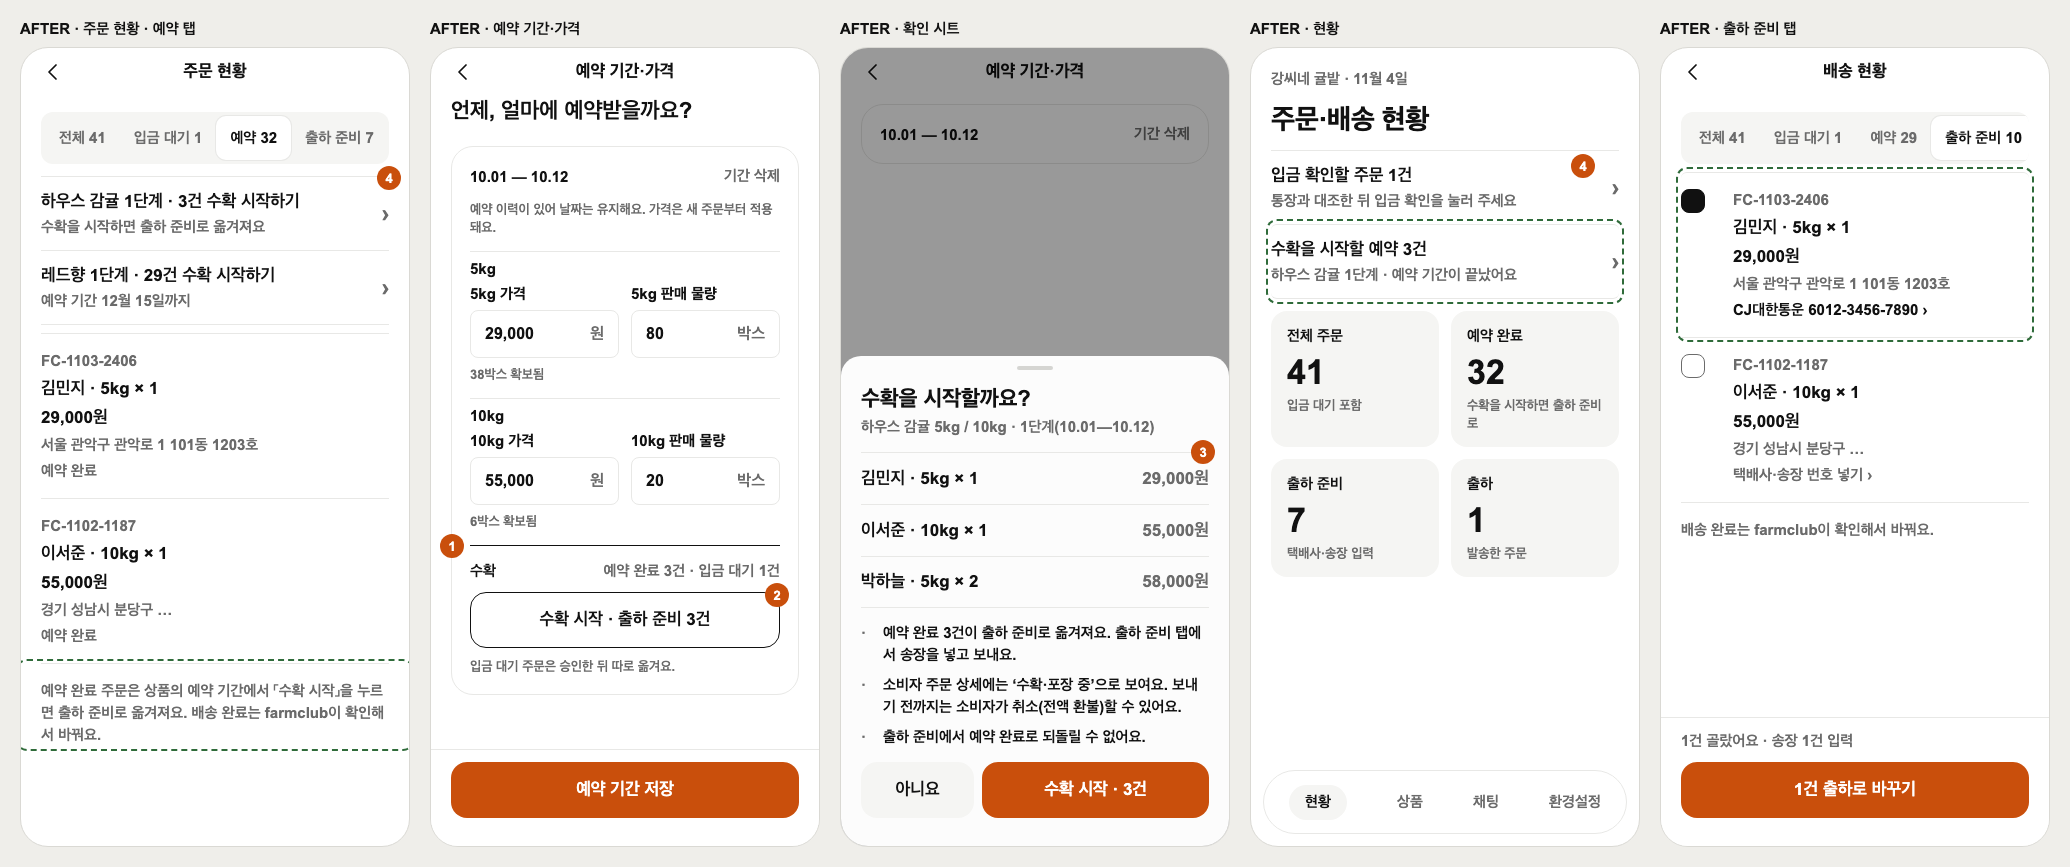
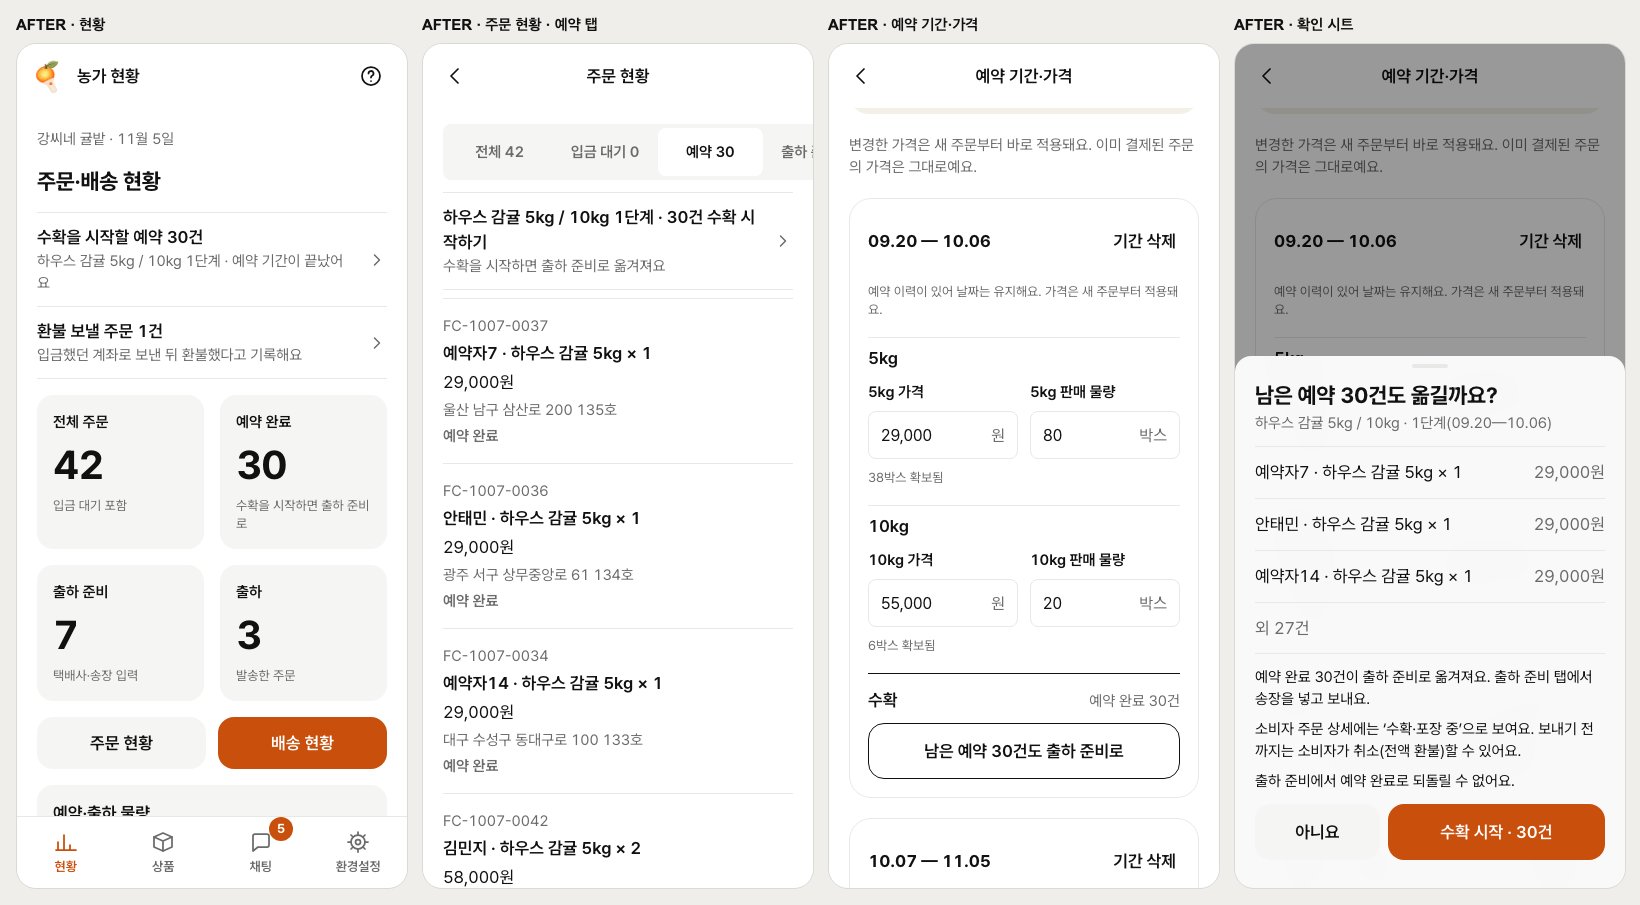
docs(design): DEV-231 implemented before/after and task records (DEV-231)

diff --git a/docs/design/proposals/dev-231-harvest-start.html b/docs/design/proposals/dev-231-harvest-start.html
@@ -217,7 +217,7 @@ pre.code { margin: 0; background: var(--bg); border-radius: 8px; padding: 12px; 
 
 <div class="wrap">
   <header class="head">
-    <span class="eyebrow">DEV-231 · HE-06(사전 점검 P1 심각도 4, P12) · 스펙 결정 B · 디자인 제안 (PM 승인 대기)</span>
+    <span class="eyebrow">DEV-231 · HE-06(사전 점검 P1 심각도 4, P12) · 스펙 결정 B · 디자인 제안 (2026-11-05 PM 승인, 추천안대로)</span>
     <h1>수확을 시작하면, 그 기간의 예약 주문이 출하 준비로 넘어간다</h1>
     <p class="lede">지금은 입금을 승인한 주문이 '예약' 탭에 들어간 뒤 아무 데도 갈 수 없다. 줄에는 '예약 완료' 글자뿐이고, '출하 준비' 탭에는 시드 주문만 있어 평가자가 만든 주문으로는 출하·송장 과제를 끝낼 수 없었다(FQ-06·AC-17-3이 수확 시작 UI를 일부러 뺐다). PM 결정 B는 "수확 시작 = 출하 준비 시작"이다. 예약 기간 카드에 결과를 말하는 버튼 하나를 두고, 현황과 예약 탭에서는 그 버튼으로 데려간다. 서버에는 이미 있던 수확 시작 API를 기간 단위로 좁혀 다시 쓴다. 왼쪽은 main 코드 그대로 다시 그린 화면, 오른쪽은 제안이다. 이름·금액·건수는 모두 <span class="ex">예시</span>다.</p>
     <div class="meta"><span>브랜치 <code>nemodleo/dev-231-harvest-start-preparing</code></span><span>작업 기록 <code>server/tasks/DEV-231.md</code> · <code>apps/producer/tasks/DEV-231.md</code></span><span>개발 PR 위험 등급: 고위험 (<code>server/app/orders/**</code>)</span></div>
@@ -568,7 +568,7 @@ Idempotency-Key: &lt;uuid&gt;          # 새로 필수(run_idempotent)
       <thead><tr><th>문서</th><th>지금</th><th>바꿀 내용</th></tr></thead>
       <tbody>
         <tr><td class="code">functional/README.md FQ-06</td><td>프론트에서 수확 시작 제거, 자동 전이 없음</td><td class="chg">결정 B(2026-11-04, DEV-231): 기간 카드의 '수확 시작'이 그 기간의 예약 완료 주문을 출하 준비로 옮긴다. 자동 전이·주문별 버튼은 없다</td></tr>
-        <tr><td class="code">FEAT-17 AC-17-3</td><td>조회만, 수확 시작 UI·호출 없음, RESERVED 그대로</td><td class="chg">예약 화면을 여는 것만으로는 상태가 바뀌지 않는다(조회는 그대로). 새 AC-17-10: 기간 하나의 수확 시작 → 그 기간 RESERVED만 PREPARING, 다른 기간·입금 대기 그대로, 소비자 상세 '수확·포장 중'. 새 AC-17-11: 다른 농가 404, 같은 키 재시도 중복 없음, 0건 200, 감사 한 행</td></tr>
+        <tr><td class="code">FEAT-17 AC-17-3</td><td>조회만, 수확 시작 UI·호출 없음, RESERVED 그대로</td><td class="chg">예약 화면을 여는 것만으로는 상태가 바뀌지 않는다(조회는 그대로). 새 AC-17-11: 기간 하나의 수확 시작 → 그 기간 RESERVED만 PREPARING, 다른 기간·입금 대기 그대로, 소비자 상세 '수확·포장 중'. 새 AC-17-12: 다른 농가 404, 같은 키 재시도 중복 없음, 0건 200, 감사 한 행</td></tr>
         <tr><td class="code">FEAT-17 정상 흐름·입력·검증</td><td>"UI·프론트 호출 및 자동 전이는 없다"</td><td class="chg">정상 흐름 1.5) 예약 기간 카드 '수확 시작 · 출하 준비 n건' → 확인 시트 → 출하 준비. 입력·검증 문장 교체</td></tr>
         <tr><td class="code">FEAT-14 정상 흐름</td><td>할 일: 입금 확인·환불·계좌</td><td class="chg">할 일 줄 「수확을 시작할 예약 n건」 추가, 예약 완료 지표 설명 문구</td></tr>
         <tr><td class="code">screens.md SCR-22·26·29, API 표</td><td>SCR-29 "수확 시작 UI/확인/완료 없음", API 표 harvest-start <code>productId</code></td><td class="chg">SCR-26 기간 카드 '수확' 칸, SCR-29 예약 탭 안내 줄·문구, SCR-22 할 일 줄, API 표 <code>stageId</code>·<code>Idempotency-Key</code>·응답</td></tr>
@@ -589,11 +589,11 @@ Idempotency-Key: &lt;uuid&gt;          # 새로 필수(run_idempotent)
       <div class="box">
         <h3>pytest (<code>server/tests/test_orders.py</code>)</h3>
         <ul>
-          <li><code>test_AC_17_10_harvest_start_moves_only_that_stage_reserved</code> — 1단계 RESERVED 2 + 2단계 RESERVED 1 + 1단계 AWAITING_DEPOSIT 1 → 1단계만 2건 PREPARING</li>
-          <li><code>test_AC_17_10_consumer_sees_preparing</code> — 소비자 주문 상세 status PREPARING, 취소 가능(REFUNDED로)</li>
-          <li><code>test_AC_17_11_other_farm_404</code>, <code>…_stage_of_other_product_404</code></li>
-          <li><code>test_AC_17_11_same_key_replay_no_duplicate_event</code>, <code>…_zero_orders_200</code>, <code>…_missing_key_400</code></li>
-          <li><code>test_AC_17_11_audit_event_once</code> — ManagerEvent 한 행, orderIds 일치</li>
+          <li><code>test_AC_17_11_harvest_start_moves_only_that_stage_reserved</code> — 1단계 RESERVED 2 + 2단계 RESERVED 1 + 1단계 AWAITING_DEPOSIT 1 → 1단계만 2건 PREPARING</li>
+          <li><code>test_AC_17_11_consumer_sees_preparing</code> — 소비자 주문 상세 status PREPARING, 취소 가능(REFUNDED로)</li>
+          <li><code>test_AC_17_12_other_farm_404</code>, <code>…_stage_of_other_product_404</code></li>
+          <li><code>test_AC_17_12_same_key_replay_no_duplicate_event</code>, <code>…_zero_orders_200</code>, <code>…_missing_key_400</code></li>
+          <li><code>test_AC_17_12_audit_event_once</code> — ManagerEvent 한 행, orderIds 일치</li>
           <li><code>test_AC_17_3_listing_does_not_change_state</code> — 생산자 목록·현황 조회만으로 RESERVED 그대로(뒤집은 AC의 남는 부분)</li>
           <li><code>test_AC_14_*_to_harvest_counts_closed_stages</code> — 끝난 기간만 셈, KST 경계</li>
           <li>기존 harvest-start 호출 4곳: <code>stageId</code> 없이 그대로 통과(호환)</li>

diff --git a/apps/producer/tasks/DEV-231.md b/apps/producer/tasks/DEV-231.md
@@ -2,18 +2,19 @@
 
 - 이슈: [DEV-231](https://linear.app/sswp6/issue/DEV-231) · GitHub #427 · 근거 HE 사전 점검 P1(심각도 4)·P12, 결과 HE-06
 - 브랜치: `nemodleo/dev-231-harvest-start-preparing`
-- 기능·인수 조건: FEAT-17 / AC-17-3(뒤집음)·AC-17-6, 새 AC-17-10·AC-17-11(제안) · FEAT-14 할 일 줄 · FEAT-05 SCR-26 예약 기간 · FQ-06
+- 기능·인수 조건: FEAT-17 / AC-17-3(좁힘)·AC-17-6, 새 AC-17-11·AC-17-12 · FEAT-14 / 새 AC-14-5 할 일 줄 · FEAT-05 SCR-26 예약 기간 · FQ-06
 - 서버 쪽은 `server/tasks/DEV-231.md`
 - 위험 등급: 개발 PR은 **고위험**(서버 `server/app/orders/**`와 함께)
-- 상태: 1단계(제안 보드) — PM 승인 대기
+- 상태: 2단계 개발 완료, 사람 리뷰 대기(서버 고위험과 같은 PR)
 
 ### 목표
 생산자가 '예약 기간·가격'(SCR-26)의 기간 카드에서 「수확 시작 · 출하 준비 n건」을 누르면 확인 시트를 거쳐 그 기간의 예약 완료 주문이 출하 준비로 옮겨진다. 현황 할 일 줄과 주문 현황 '예약' 탭 안내에서 이 버튼으로 갈 수 있다.
 
 ### 범위 (수정 허용 경로)
 - 1단계: `docs/design/proposals/dev-231-harvest-start.html`, `docs/design/proposals/DEV-231/*.png`
-- 2단계(승인 뒤): `apps/producer/src/app/(tabs)/products/[id]/stages.tsx`(기간 카드 수확 줄·확인 시트), `apps/producer/src/app/(tabs)/index.tsx`(할 일 줄), `apps/producer/src/app/ship.tsx`(예약 탭 안내·바로가기), `packages/api/src/endpoints.ts`·`types.ts`(`harvestStart(productId, stageId, key)`, 대시보드 `toHarvest`), `packages/api/src/mock/orders.ts`·`mock/catalog.ts`(단계 필터·수)
-- `scripts/e2e/*.spec.ts`(생산자 출하 흐름), `scripts/test-*.mjs`(Mock)
+- 2단계(승인 뒤): `apps/producer/src/app/(tabs)/products/[id]/stages.tsx`(기간 카드 수확 줄·확인 시트), `apps/producer/src/lib/HarvestStart.tsx`(새: '수확' 칸·시트 부품), `apps/producer/src/app/(tabs)/index.tsx`(할 일 줄), `apps/producer/src/app/ship.tsx`(예약 탭 안내·바로가기), `packages/api/src/endpoints.ts`·`types.ts`(`harvestStart(productId, stageId, key)`, 대시보드 `toHarvest`), `packages/api/src/mock/orders.ts`·`mock/catalog.ts`·`mock/derive.ts`(기간 필터·수, 주문 줄 `stageId`)
+- `scripts/e2e/checkout-and-fulfillment.spec.ts`(API로 옮기던 것을 화면 조작으로), `scripts/test-harvest-start.mjs`(새 Mock 테스트)
+- 문서는 `server/tasks/DEV-231.md` 범위와 같음
 - `apps/producer/spec.md` 90행 "수확 시작 호출은 없다" 뒤집기
 
 ### 비범위 (건드리지 않음)
@@ -27,15 +28,25 @@
 - 11/04 제안: 강조색 버튼은 화면당 하나(하단 '예약 기간 저장')라 기간 카드의 수확 버튼은 테두리 버튼(outline). 시트 안 주 버튼만 강조색.
 - 11/04 제안: 수정 중인 값이 있으면 수확 버튼을 막고 「저장한 뒤 수확을 시작할 수 있어요」 — 저장 안 한 폼과 섞이지 않게.
 
+- 11/05 PM 승인(추천안 그대로, 결정 8개는 `server/tasks/DEV-231.md`).
+- 11/05 구현: 저장 안 한 값 판단은 불러온 기간 값(시작·끝·옵션 가격·물량)을 문자열로 저장해 두고 지금 값과 비교. 불러올 때 행에 쓰는 칸만 골라 담아 PUT 본문에 새 수 칸이 섞이지 않게 함.
+- 11/05 구현: 시트는 열 때 `GET /api/orders/producer?status=RESERVED&productId=`를 읽어 `stageId`로 거른다. 멱등 키는 시트를 열 때 하나 만들어 같은 시트의 재시도에 쓴다. 404·409면 시트를 닫고 Notice 「이미 상태가 바뀌었어요. 최신 상태로 다시 보여 드려요.」.
+- 11/05 구현: 열린 기간 판단은 서버 시각(`serverNow`, DEV-229) 기준 한국 날짜.
+- 11/05 구현: `?stage=`로 오면 웹에서 그 카드로 스크롤(`nativeID`=`stage-<id>`).
+- 11/05 보드와 다른 점: 예약 기간 화면의 '예약 기간 저장'은 지금도 하단 바가 아니라 본문 끝 버튼이라 그대로 둠.
+
 ### 작업
 - [x] 현황(`(tabs)/index.tsx`)·주문 현황(`ship.tsx`)·예약 기간(`stages.tsx`)·상품 목록·소비자 주문 상세 코드 읽음
 - [x] 제안 보드, before/after PNG
-- [ ] PM 승인
-- [ ] (2단계) 화면·Mock·e2e, Figma v6 반영 요청
+- [x] PM 승인(11/05)
+- [x] 화면·Mock·e2e
+- [x] before/after 구현 화면 캡처(`docs/design/proposals/DEV-231/`)
+- [ ] Figma v6 반영(후속)
 
 ### 완료 조건
-- [ ] 평가자가 만든 주문(입금 승인 → 예약)이 화면 조작만으로 출하 준비 → 출하까지 간다
-- [ ] `npm run typecheck`, `npm run test:mock`, 해당 Playwright spec 통과
+- [x] 평가자가 만든 주문(입금 승인 → 예약)이 화면 조작만으로 출하 준비 → 출하까지 간다(e2e)
+- [x] `npm run typecheck`, `npm run test:mock`, 해당 Playwright spec 통과
 
 ### 기록
+- 11/05 2단계: `npm run typecheck` 통과, `npm run test:mock` 131 passed / 0 failed(새 `test-harvest-start.mjs` 5개), Playwright `checkout-and-fulfillment.spec.ts` 2 passed, `conversation-ui`·`checkout-stage-changed`·`order-row-identity`·`producer-i2` 21 passed. before는 origin/main 생산자 앱, after는 이 브랜치 앱을 같은 실서버·같은 DB(1단계 끝을 10-06으로 당김)에 붙여 390px로 찍음.
 - 11/04 1단계: BEFORE는 main 코드 그대로 다시 그림(예약 탭 줄은 '예약 완료' 글자뿐·누를 곳 없음, 탭 아래 '배송 완료는 farmclub이 확인해서 바꿔요.', 예약 기간 카드는 날짜·가격·'n박스 확보됨'뿐). 앱 코드는 바꾸지 않았다.
